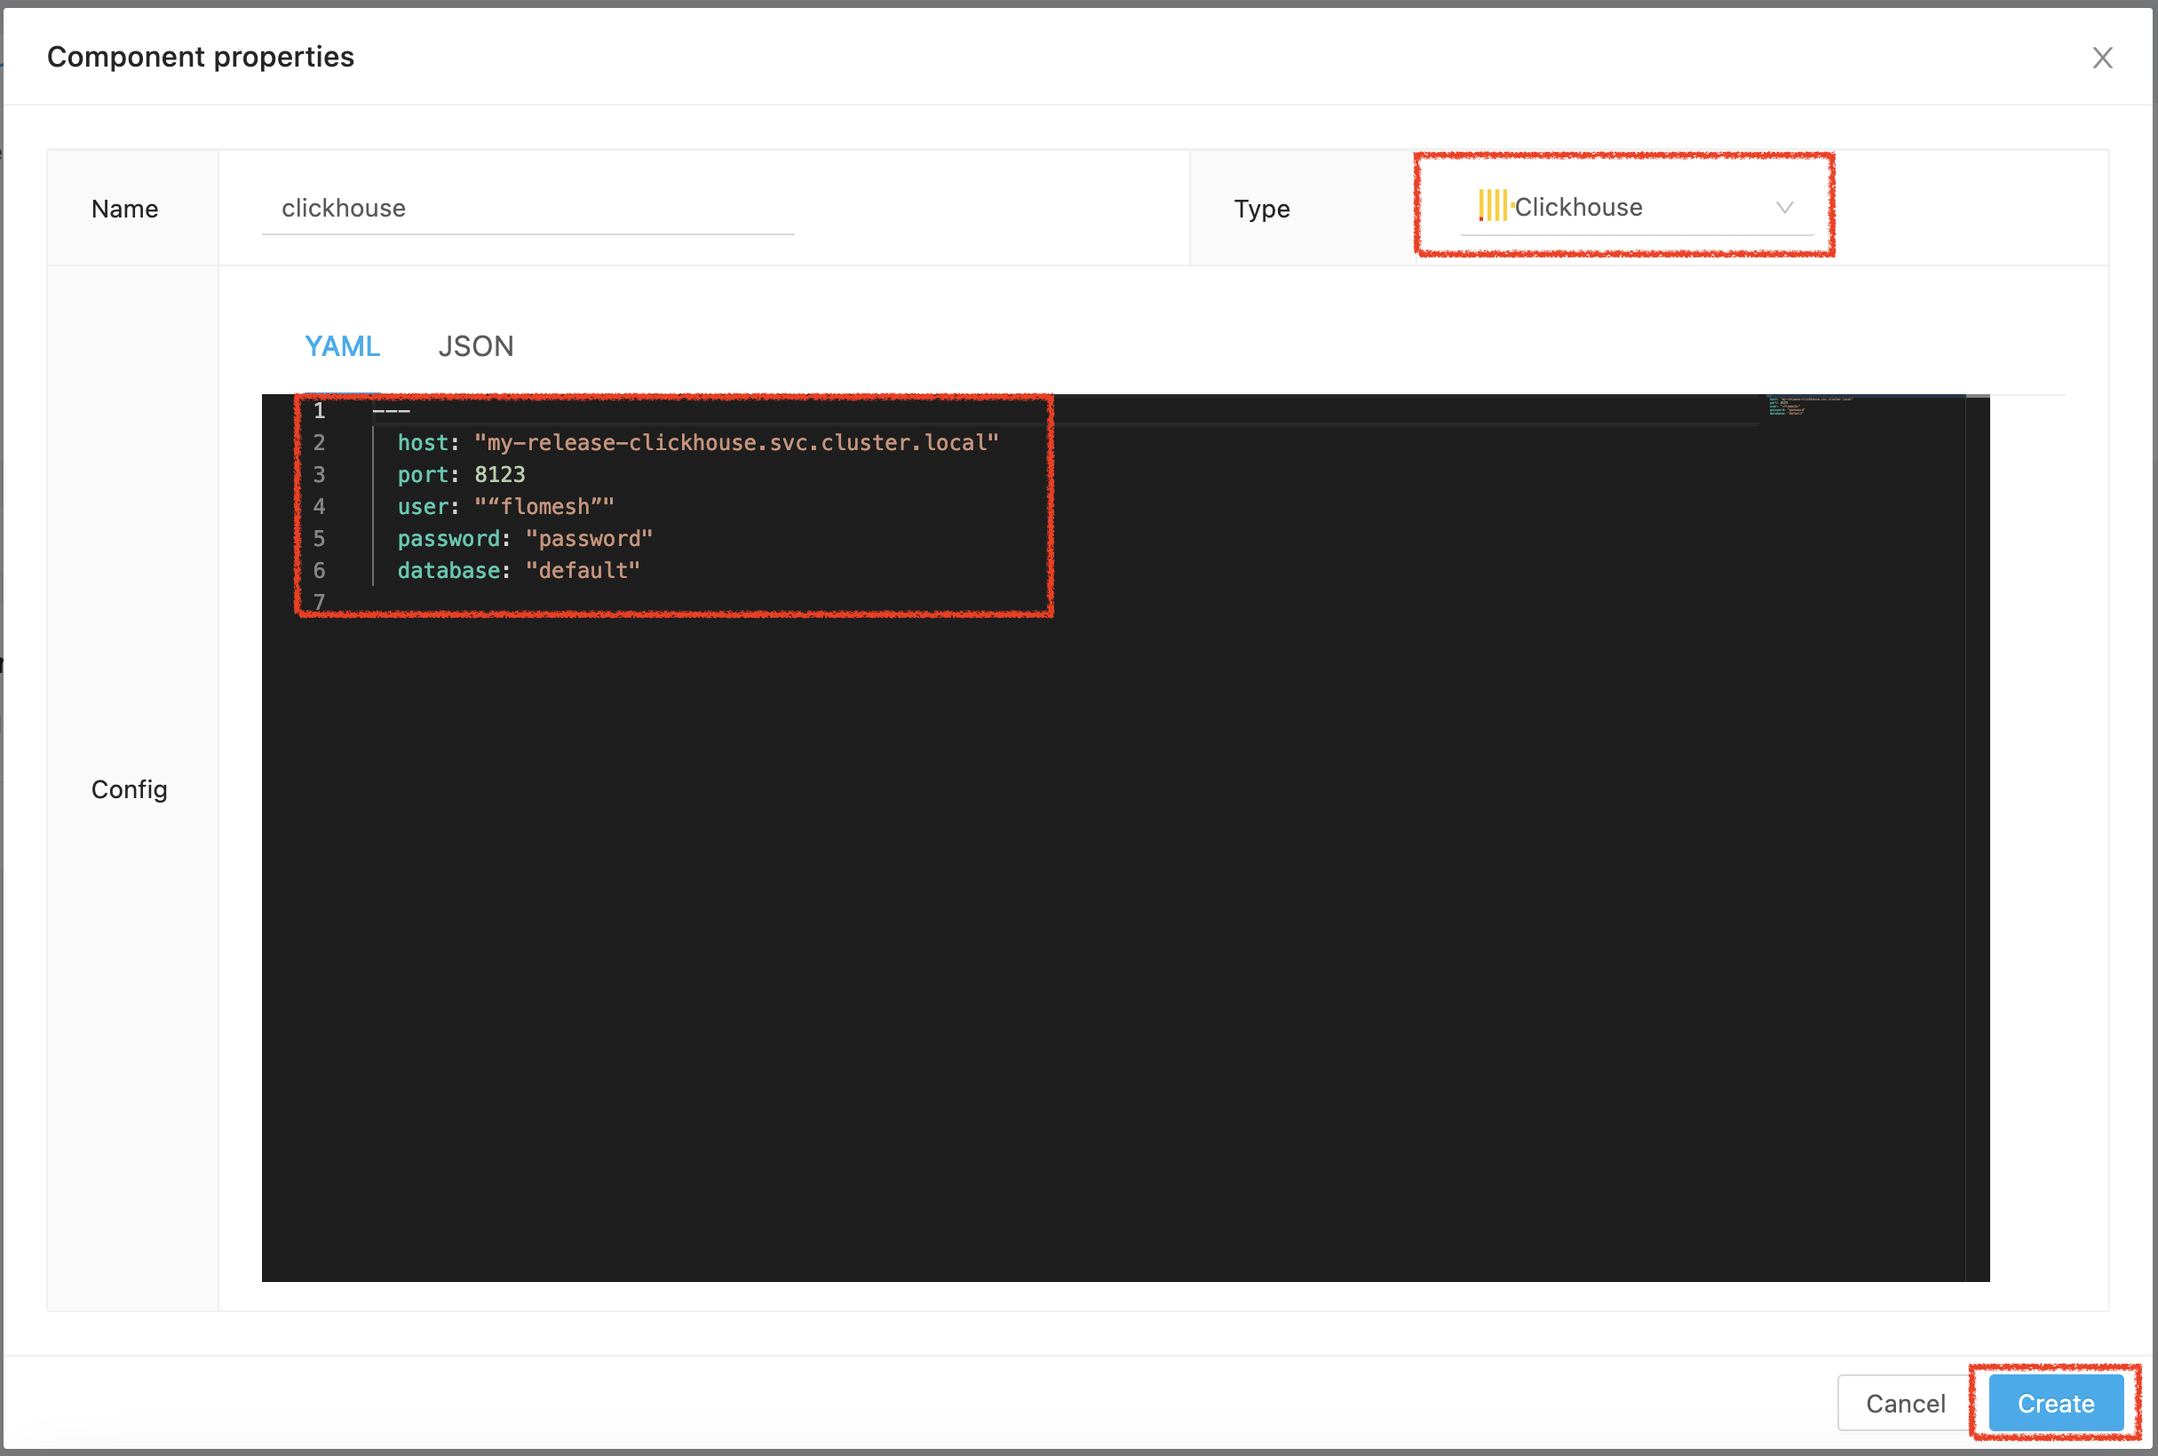
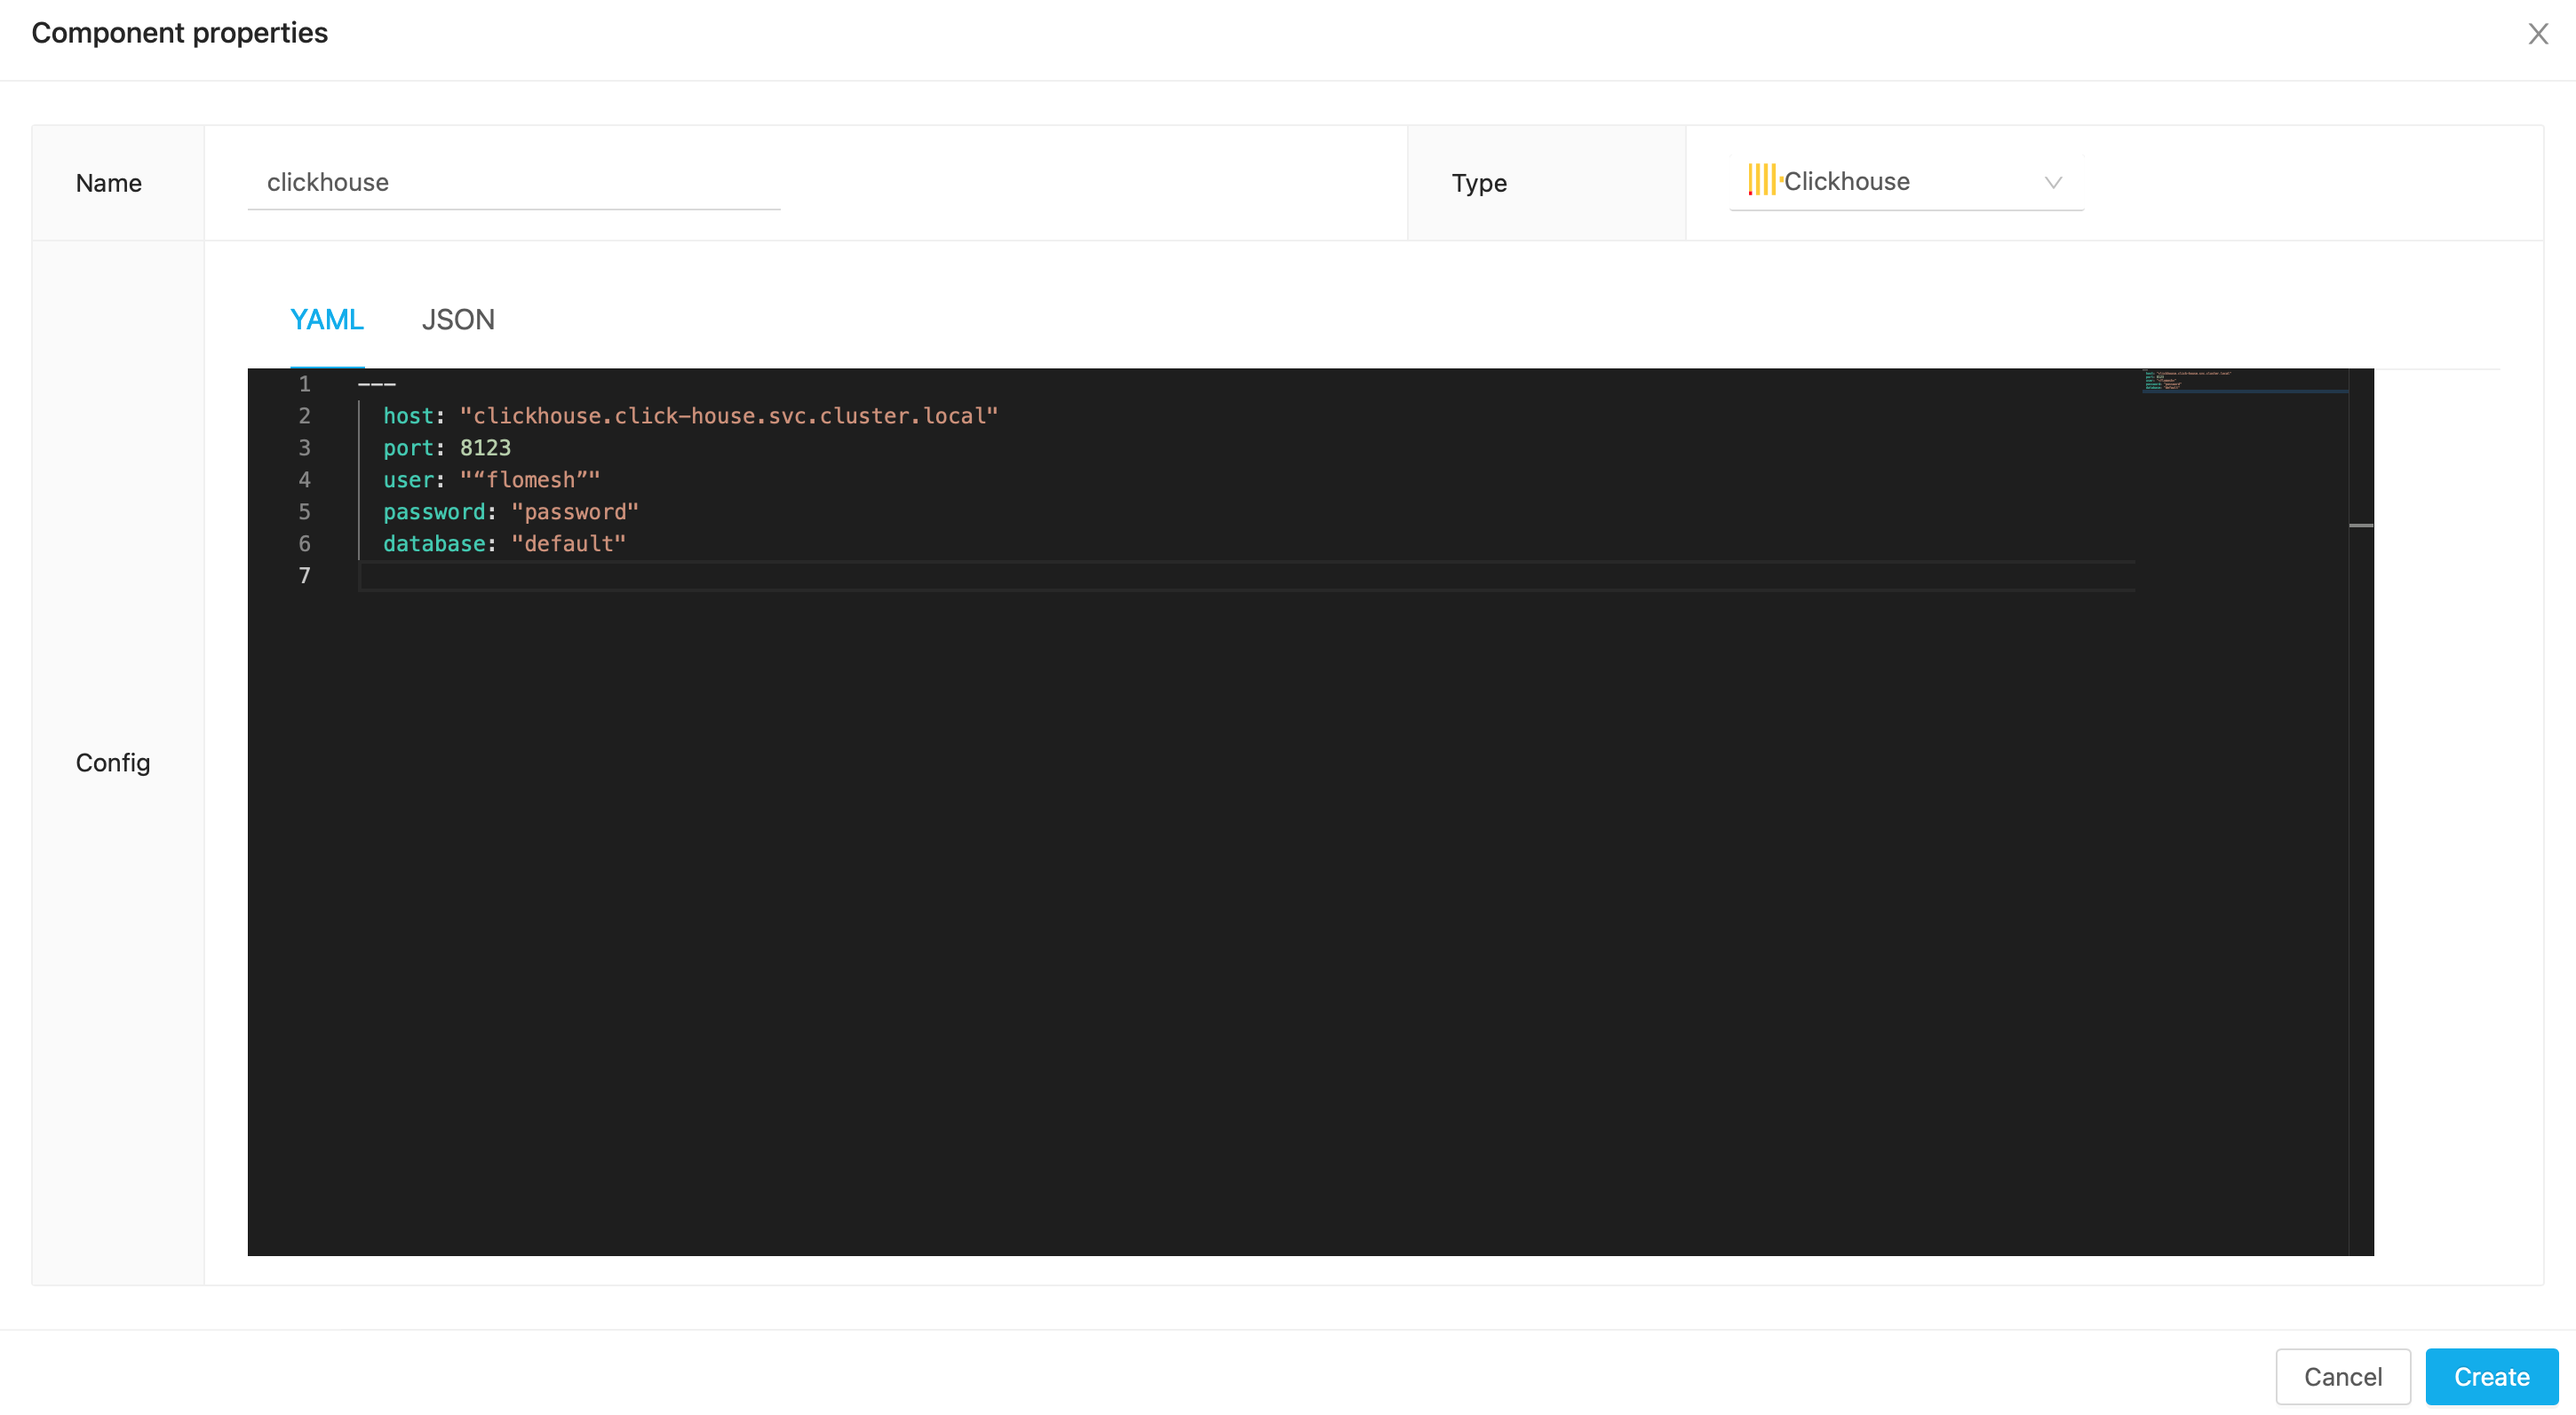
set replica and shard count of clickhouse as 1

diff --git a/docs/quick-start/quick-start.md b/docs/quick-start/quick-start.md
@@ -45,9 +45,12 @@ helm repo add bitnami https://charts.bitnami.com/bitnami
 Install **Clickhouse** server with username `flomesh` and password `password`
 
 ```shell
-helm install my-release bitnami/clickhouse --namespace click-house --create-namespace \
+helm install clickhouse bitnami/clickhouse --namespace click-house --create-namespace \
  --set auth.username=flomesh \
- --set auth.password=password
+ --set auth.password=password \
+ --set shards=1 \
+ --set replicaCount=1 \
+ --set zookeeper.enabled=false
 ```
 
 ## Install traffic-guru
@@ -106,7 +109,7 @@ In pop-up window, choose type "Clickhouse" and attach content below in "Config" 
 
 ```yaml
 ---
-  host: "my-release-clickhouse.svc.cluster.local"
+  host: "clickhouse.click-house.svc.cluster.local"
   port: 8123
   user: “flomesh”
   password: "password"
